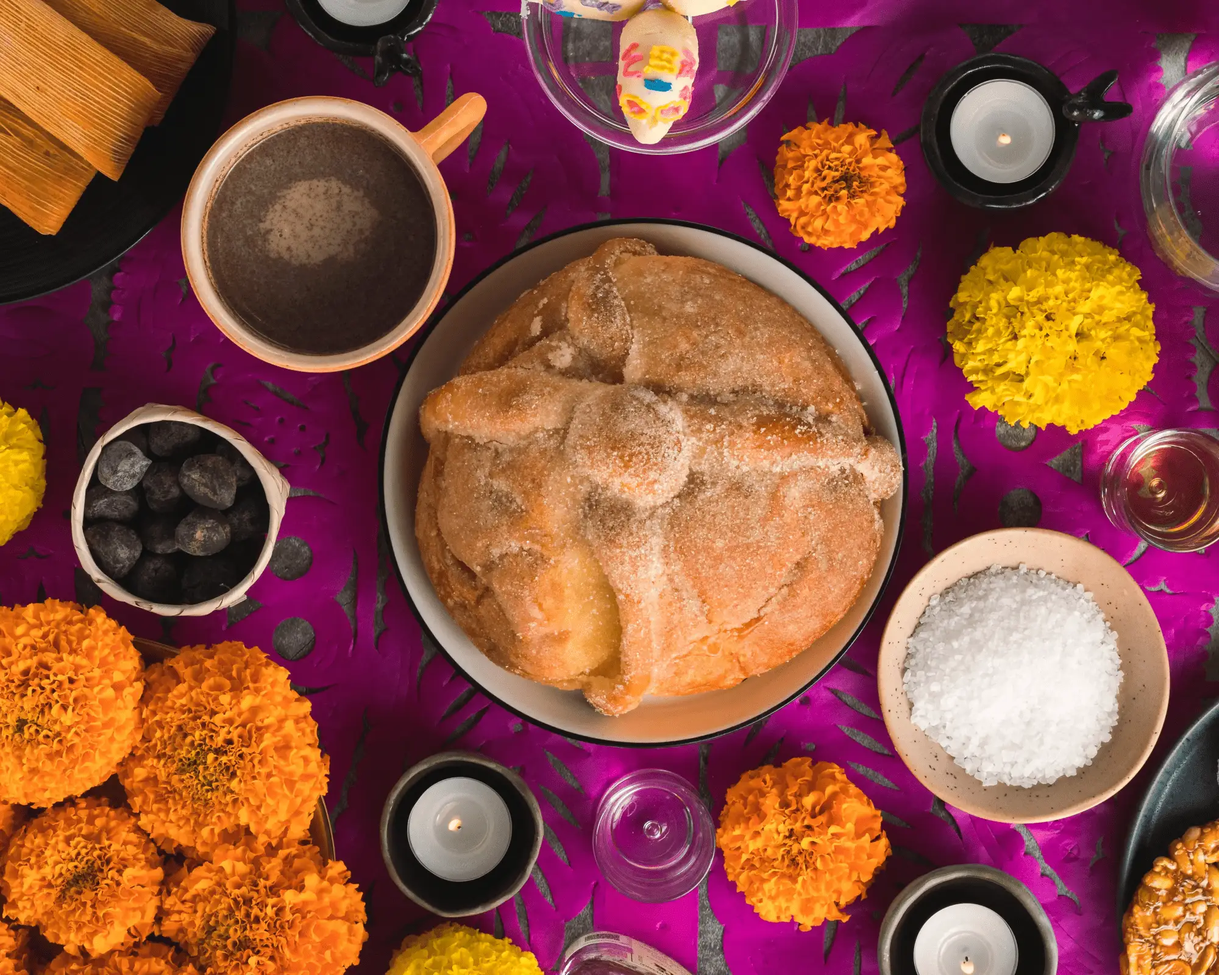
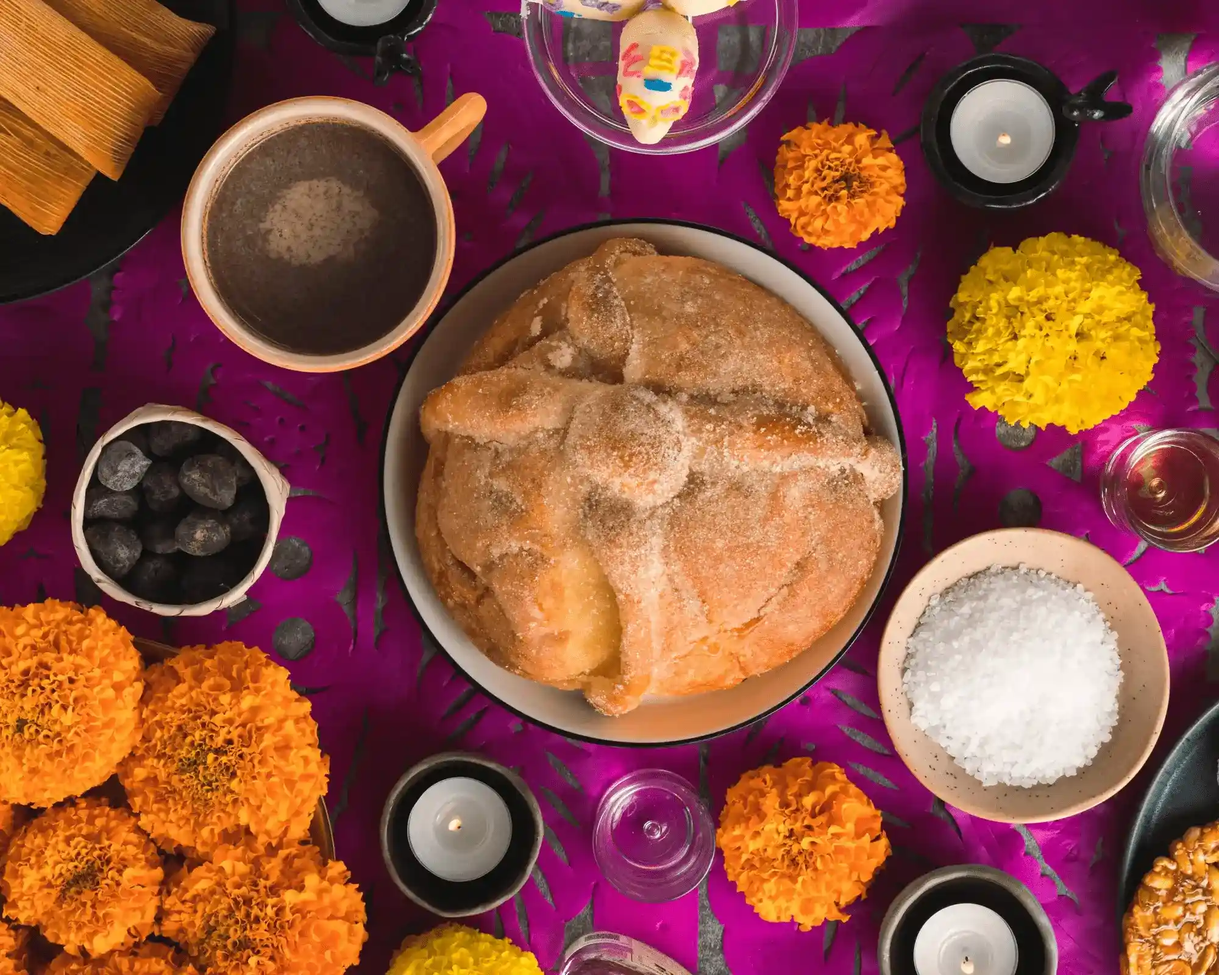
lighhouse: compress again 2 images for better performance

diff --git a/form.html b/form.html
@@ -56,7 +56,7 @@
         <!--Section:div with image and a text section / Content: You are ready to get your alebrije, fill the form below-->
         <section>
             <div class="image">
-                <img src="/assets/images/ajolote.webp" alt="image of an ajolote in the water">
+                <img src="assets/images/ajolote.webp" alt="image of an ajolote in the water">
                 <a id="right-day"></a>
                 <div class="text">
                     <h2>Get your alebrije!</h2>
@@ -70,7 +70,7 @@
                         If you still have any doubts or question , don't hesitate to contact us!
                     </p>
                 </div>
-                <img src="/assets/images/tiger-alebrije.webp"
+                <img src="assets/images/tiger-alebrije.webp"
                     alt="image of a orange and blue tiger alebrije, looking at his tail">
             </div>
         </section>
@@ -83,7 +83,7 @@
             </h2>
             <!--Form and terms container-->
             <div class="form-terms-container">
-                <form action="/congratulation.html" class="alebrije-form">
+                <form action="../newline-alebrije/congratulation.html" class="alebrije-form">
                     <fieldset class="form">
                         <legend>Let's get your alebrije!</legend>
 

diff --git a/assets/css/style.css b/assets/css/style.css
@@ -1044,7 +1044,7 @@ legend {
     }
 
     .instruction {
-        margin: 18% 5%;
+        margin: 20% 5%;
     }
 
     .instruction>img {
